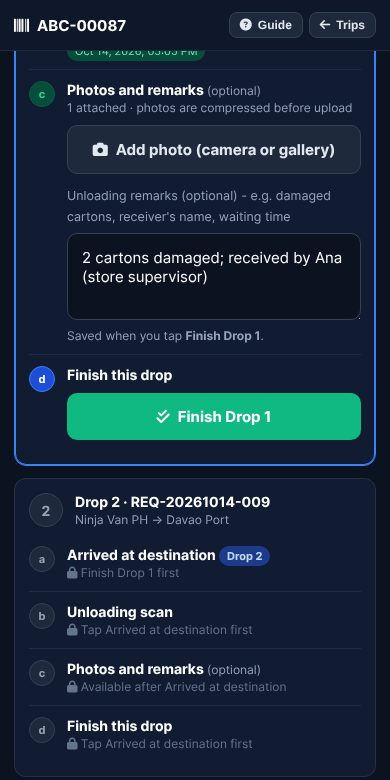
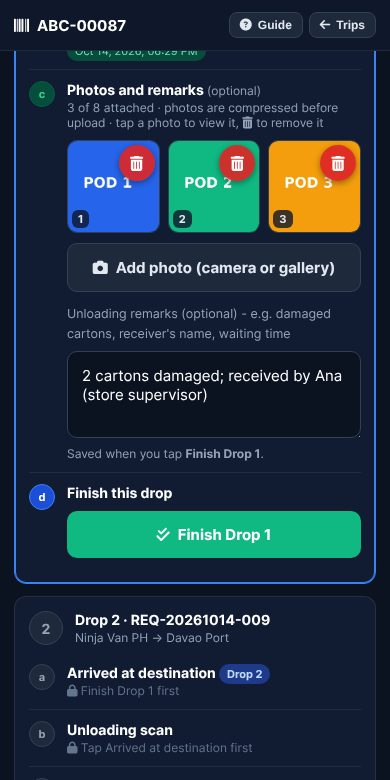
Scanning app: view drop photos on the phone and remove ones you added
- GET /api/scan/requests/{rid}/attachments/{aid}: shows a drop photo/PDF inline
  (photos and PDFs only; everything else downloads; nosniff on all attachments)
- DELETE same path: driver removes their own photo while the drop is unfinished
- Trip detail lists attachments without storage paths, marking the driver's own
- Thumbnails + review step in the app; driver guide updated

diff --git a/backend/static/index.html b/backend/static/index.html
@@ -201,6 +201,20 @@ body.scan-mode .layout{display:none}
 .sc-btn[disabled]{opacity:.45;cursor:not-allowed}
 .sc-in{width:100%;padding:14px;font-size:17px;border-radius:10px;border:1px solid #334155;background:#0B1220;color:#fff;font-family:inherit}
 .sc-in-wrap{position:relative}
+.sc-thumbs{display:grid;grid-template-columns:repeat(3,1fr);gap:8px;margin-top:10px}
+.sc-th{position:relative;aspect-ratio:1/1;border-radius:10px;overflow:hidden;background:#0B1220;border:1px solid #334155;cursor:pointer}
+.sc-th img{width:100%;height:100%;object-fit:cover;display:block}
+.sc-th .ph{position:absolute;inset:0;display:flex;flex-direction:column;align-items:center;justify-content:center;gap:4px;color:#94A3B8;font-size:11px;padding:6px;text-align:center;word-break:break-all}
+.sc-th .ph i{font-size:22px}
+.sc-th-del{position:absolute;top:4px;right:4px;width:36px;height:36px;border-radius:50%;border:0;background:rgba(220,38,38,.92);color:#fff;font-size:15px;display:flex;align-items:center;justify-content:center;cursor:pointer;box-shadow:0 2px 6px rgba(0,0,0,.4)}
+.sc-th-n{position:absolute;left:4px;bottom:4px;background:rgba(15,23,42,.8);color:#E2E8F0;font-size:11px;font-weight:700;border-radius:6px;padding:2px 6px}
+#scPv{position:fixed;inset:0;z-index:450;background:#020617;display:flex;flex-direction:column;color:#fff}
+#scPv .pv-top{display:flex;justify-content:space-between;align-items:center;gap:8px;padding:12px 14px}
+#scPv .pv-img{flex:1;display:flex;align-items:center;justify-content:center;min-height:0;padding:0 8px;position:relative}
+#scPv .pv-img img{max-width:100%;max-height:100%;object-fit:contain;border-radius:6px}
+#scPv .pv-nav{position:absolute;top:50%;transform:translateY(-50%);width:46px;height:46px;border-radius:50%;border:0;background:rgba(51,65,85,.85);color:#fff;font-size:18px;cursor:pointer}
+#scPv .pv-bot{display:flex;gap:10px;padding:12px 14px 18px}
+#scPv .pv-bot .sc-btn{margin-top:0}
 .sc-in-wrap .sc-in{padding-right:56px}
 .sc-clr{position:absolute;right:6px;top:50%;transform:translateY(-50%);width:44px;height:44px;border:0;border-radius:50%;background:#334155;color:#fff;font-size:18px;display:none;align-items:center;justify-content:center;cursor:pointer;-webkit-tap-highlight-color:transparent}
 .sc-clr.on{display:flex}
@@ -686,8 +700,8 @@ body.scan-mode .layout{display:none}
 <div class="card" style="margin-bottom:16px;scroll-margin-top:90px" data-gid="gd-drop">
 <div class="card-h"><h3><i class="fas fa-location-dot"></i> 5. At each drop</h3><a href="javascript:void(0)" onclick="return guideJump(this,'top')" style="font-size:12px;color:var(--muted);text-decoration:none"><i class="fas fa-arrow-up"></i> Top</a></div>
 <div class="card-b">
-<ol class="guide-steps"><li>Drops are done in order: Drop 1, then Drop 2, &hellip;</li><li><strong>(a) Arrived at destination</strong> &mdash; tap it when you arrive.</li><li><strong>(b) Unloading scan</strong> &mdash; tap <strong>Open unloading scan</strong> and scan each bag you unload. Only bags loaded for this drop are accepted.</li><li>Tap <strong>End Unloading Scan</strong>, check the summary and confirm. Bags still without an unloading scan are shown as <strong>(Discrepancy)</strong>. It cannot be reopened afterwards.</li><li><strong>(c) Photos and remarks</strong> (optional) &mdash; tap <strong>Add photo</strong> to take or choose photos (e.g. proof of delivery), and type any <strong>Unloading remarks</strong> (e.g. damaged cartons, who received the bags).</li><li><strong>(d) Finish Drop</strong> &mdash; tap it to complete the drop. Your remarks are saved with it and the next drop unlocks.</li></ol>
-<div class="g-shots"><figure class="g-shot g-pair"><a href="/guide/d06-unload.jpg" target="_blank" rel="noopener" title="Open full size"><img src="/guide/d06-unload.jpg" alt="Unloading scan, then the summary before ending it." loading="lazy"></a><figcaption><i class="fas fa-image"></i> Unloading scan, then the summary before ending it.</figcaption></figure><figure class="g-shot g-phone"><a href="/guide/d07-photos.jpg" target="_blank" rel="noopener" title="Open full size"><img src="/guide/d07-photos.jpg" alt="Add photos and remarks, then Finish Drop." loading="lazy"></a><figcaption><i class="fas fa-image"></i> Add photos and remarks, then <strong>Finish Drop</strong>.</figcaption></figure></div>
+<ol class="guide-steps"><li>Drops are done in order: Drop 1, then Drop 2, &hellip;</li><li><strong>(a) Arrived at destination</strong> &mdash; tap it when you arrive.</li><li><strong>(b) Unloading scan</strong> &mdash; tap <strong>Open unloading scan</strong> and scan each bag you unload. Only bags loaded for this drop are accepted.</li><li>Tap <strong>End Unloading Scan</strong>, check the summary and confirm. Bags still without an unloading scan are shown as <strong>(Discrepancy)</strong>. It cannot be reopened afterwards.</li><li><strong>(c) Photos and remarks</strong> (optional) &mdash; tap <strong>Add photo</strong> to take or choose photos (e.g. proof of delivery), and type any <strong>Unloading remarks</strong> (e.g. damaged cartons, who received the bags).</li><li><strong>Check your photos</strong> &mdash; tap a photo to see it full screen (use the arrows for the others). To remove one, tap its <i class="fas fa-trash-can"></i> (or <strong>Remove this photo</strong>) and confirm. Up to 8 files per drop; photos can be removed until you tap Finish Drop.</li><li><strong>(d) Finish Drop</strong> &mdash; tap it to complete the drop. Your remarks are saved with it and the next drop unlocks.</li></ol>
+<div class="g-shots"><figure class="g-shot g-pair"><a href="/guide/d06-unload.jpg" target="_blank" rel="noopener" title="Open full size"><img src="/guide/d06-unload.jpg" alt="Unloading scan, then the summary before ending it." loading="lazy"></a><figcaption><i class="fas fa-image"></i> Unloading scan, then the summary before ending it.</figcaption></figure><figure class="g-shot g-phone"><a href="/guide/d07-photos.jpg" target="_blank" rel="noopener" title="Open full size"><img src="/guide/d07-photos.jpg" alt="Add photos and remarks, then Finish Drop." loading="lazy"></a><figcaption><i class="fas fa-image"></i> Add photos and remarks, then <strong>Finish Drop</strong>.</figcaption></figure><figure class="g-shot g-pair"><a href="/guide/d08-review.jpg" target="_blank" rel="noopener" title="Open full size"><img src="/guide/d08-review.jpg" alt="Review a photo full screen, and confirm before removing it." loading="lazy"></a><figcaption><i class="fas fa-image"></i> Review a photo full screen, and confirm before removing it.</figcaption></figure></div>
 </div></div>
 <div class="card" style="margin-bottom:16px;scroll-margin-top:90px" data-gid="gd-done">
 <div class="card-h"><h3><i class="fas fa-flag-checkered"></i> 6. Finish the trip</h3><a href="javascript:void(0)" onclick="return guideJump(this,'top')" style="font-size:12px;color:var(--muted);text-decoration:none"><i class="fas fa-arrow-up"></i> Top</a></div>
@@ -4014,7 +4028,8 @@ function scDropCard(t,r,i,prevNo){
   // c) photos and unloading remarks (after arrival); remarks are saved with Finish Drop
   const draft=scRemarkDraft[r.id]!=null?scRemarkDraft[r.id]:(r.unloading_remarks||'');
   let c='<div class="sc-step"><div class="sc-dot '+((r.attachments||[]).length||r.unloading_remarks?'done':'')+'">c</div><div class="sc-body"><div class="t">Photos and remarks <span style="font-weight:400;color:#94A3B8;font-size:12px">(optional)</span></div>';
-  if(arrived&&!done)c+='<div class="s">'+((r.attachments||[]).length)+' attached &middot; photos are compressed before upload</div><button class="sc-btn sec" onclick="scPhoto('+r.id+')"><i class="fas fa-camera"></i> Add photo (camera or gallery)</button>'+
+  if(arrived&&!done)c+='<div class="s">'+((r.attachments||[]).length)+' of 8 attached &middot; photos are compressed before upload'+((r.attachments||[]).length?' &middot; tap a photo to view it, <i class="fas fa-trash-can"></i> to remove it':'')+'</div>'+scThumbs(r)+
+    ((r.attachments||[]).length<8?'<button class="sc-btn sec" onclick="scPhoto('+r.id+')"><i class="fas fa-camera"></i> Add photo (camera or gallery)</button>':'<div class="s" style="color:#FCD34D;margin-top:8px">8 files is the limit - remove one to add another.</div>')+
     '<input type="file" id="scFile'+r.id+'" accept="image/*,application/pdf" multiple style="display:none" onchange="scPhotoSend('+r.id+',this)">'+
     '<label class="sc-hint" for="scRemark'+r.id+'" style="display:block;margin-top:12px">Unloading remarks (optional) - e.g. damaged cartons, receiver\'s name, waiting time</label>'+
     '<textarea class="sc-in" id="scRemark'+r.id+'" rows="3" maxlength="1000" style="margin-top:6px;font-size:15px" placeholder="Type any remarks about this drop..." oninput="scRemarkDraft['+r.id+']=this.value">'+esc(draft)+'</textarea>'+
@@ -4081,6 +4096,7 @@ function renderScanTrip(){
   let prevNo=null;
   rs.forEach((r,i)=>{body+=scDropCard(t,r,i,prevNo);prevNo=scDropNo(r,i)});
   scanShell(esc(t.trip_id),body,scanBack('Trips','scanHome()'));
+  scLoadThumbs();
 }
 async function scConfirmArrival(){
   const t=scanCur;if(!t)return;
@@ -4181,6 +4197,83 @@ async function scanReloadTrip(){
   renderScanTrip();
 }
 function scPhoto(rid){const i=document.getElementById('scFile'+rid);if(i)i.click()}
+/* ---- review the drop's photos: thumbnails, full-screen viewer, remove ---- */
+const scThumbUrl={};   // attachment id -> object URL of the downloaded photo
+function scAttsOf(rid){const t=scanCur;const r=t&&(t.requests||[]).find(x=>x.id===rid);return (r&&r.attachments)||[]}
+function scThumbs(r){
+  const atts=r.attachments||[];
+  if(!atts.length)return '';
+  return '<div class="sc-thumbs">'+atts.map((a,i)=>{
+    const del=a.mine?'<button type="button" class="sc-th-del" title="Remove this photo" aria-label="Remove photo '+(i+1)+'" onclick="event.stopPropagation();scPhotoDel('+r.id+','+a.id+')"><i class="fas fa-trash-can"></i></button>':'';
+    const inner=a.is_image?'<img data-scatt="'+r.id+':'+a.id+'" alt="Photo '+(i+1)+'"'+(scThumbUrl[a.id]?' src="'+scThumbUrl[a.id]+'"':'')+'>'+(scThumbUrl[a.id]?'':'<div class="ph"><i class="fas fa-spinner fa-spin"></i></div>')
+      :'<div class="ph"><i class="fas '+(/pdf/i.test(a.file_type||'')?'fa-file-pdf':'fa-file')+'"></i>'+esc(String(a.original_filename||'file').slice(0,28))+'</div>';
+    return '<div class="sc-th" role="button" tabindex="0" title="'+esc(a.original_filename||'')+'" onclick="scPhotoOpen('+r.id+','+i+')">'+inner+'<span class="sc-th-n">'+(i+1)+'</span>'+del+'</div>';
+  }).join('')+'</div>';
+}
+async function scAttBlobUrl(rid,aid){
+  if(scThumbUrl[aid])return scThumbUrl[aid];
+  const h={};if(scanTok())h['X-Scan-Token']=scanTok();
+  const res=await fetch('/api/scan/requests/'+rid+'/attachments/'+aid,{headers:h});
+  if(!res.ok)throw new Error(res.status===404?'Photo not found':'Could not load the photo');
+  const u=URL.createObjectURL(await res.blob());
+  scThumbUrl[aid]=u;return u;
+}
+/* Fill every thumbnail on screen (cached, so re-drawing the trip does not download again). */
+async function scLoadThumbs(){
+  const imgs=[...document.querySelectorAll('#scanApp img[data-scatt]')].filter(i=>!i.getAttribute('src'));
+  for(const im of imgs){
+    const [rid,aid]=im.dataset.scatt.split(':').map(Number);
+    try{
+      const u=await scAttBlobUrl(rid,aid);
+      document.querySelectorAll('#scanApp img[data-scatt="'+rid+':'+aid+'"]').forEach(x=>{x.src=u;const ph=x.parentNode.querySelector('.ph');if(ph)ph.remove()});
+    }catch(e){
+      const ph=im.parentNode.querySelector('.ph');if(ph)ph.innerHTML='<i class="fas fa-image"></i>Not loaded';
+    }
+  }
+}
+let scPv=null;  // {rid, i}
+async function scPhotoOpen(rid,i){
+  const atts=scAttsOf(rid);const a=atts[i];if(!a)return;
+  if(!a.is_image){  // a PDF or other file: open it on its own
+    try{const u=await scAttBlobUrl(rid,a.id);window.open(u,'_blank')}catch(e){scanAlert(e.message)}
+    return;
+  }
+  scPv={rid,i};
+  let ov=document.getElementById('scPv');
+  if(!ov){ov=document.createElement('div');ov.id='scPv';document.body.appendChild(ov)}
+  const editable=!!document.querySelector('#scFile'+rid);  // drop still open on this phone
+  ov.innerHTML='<div class="pv-top"><strong>Photo '+(i+1)+' of '+atts.length+'</strong><button class="btn btn-sm btn-p" onclick="scPhotoClose()"><i class="fas fa-xmark"></i> Close</button></div>'+
+    '<div class="pv-img">'+(atts.length>1?'<button class="pv-nav" style="left:10px" aria-label="Previous photo" onclick="scPhotoStep(-1)"><i class="fas fa-chevron-left"></i></button>':'')+
+    '<img id="scPvImg" alt="Photo '+(i+1)+'"'+(scThumbUrl[a.id]?' src="'+scThumbUrl[a.id]+'"':'')+'>'+
+    (atts.length>1?'<button class="pv-nav" style="right:10px" aria-label="Next photo" onclick="scPhotoStep(1)"><i class="fas fa-chevron-right"></i></button>':'')+'</div>'+
+    '<div class="pv-bot">'+(a.mine&&editable?'<button class="sc-btn danger" onclick="scPhotoDel('+rid+','+a.id+',true)"><i class="fas fa-trash-can"></i> Remove this photo</button>':'<div class="sc-hint" style="flex:1;text-align:center">'+(a.mine?'This drop is finished - photos can no longer be removed here.':'Added by the office - it cannot be removed from the phone.')+'</div>')+'</div>';
+  ov.style.display='flex';
+  if(!scThumbUrl[a.id]){try{const u=await scAttBlobUrl(rid,a.id);const im=document.getElementById('scPvImg');if(im)im.src=u}catch(e){}}
+}
+function scPhotoStep(d){
+  if(!scPv)return;const atts=scAttsOf(scPv.rid);if(!atts.length)return;
+  let i=scPv.i;
+  for(let k=0;k<atts.length;k++){i=(i+d+atts.length)%atts.length;if(atts[i].is_image)break}
+  scPhotoOpen(scPv.rid,i);
+}
+function scPhotoClose(){const ov=document.getElementById('scPv');if(ov)ov.remove();scPv=null}
+async function scPhotoDel(rid,aid,fromViewer){
+  const atts=scAttsOf(rid);const n=atts.findIndex(a=>a.id===aid)+1;
+  if(fromViewer)scPhotoClose();
+  const ok=await scanModal({title:'Remove photo '+(n||'')+'?',icon:'trash-can',ok:'Remove',okClass:'danger',cancel:'Keep it',
+    html:(scThumbUrl[aid]?'<img src="'+scThumbUrl[aid]+'" alt="" style="width:100%;max-height:220px;object-fit:contain;border-radius:8px;margin-bottom:10px">':'')+
+      '<p>The photo is deleted from this drop and cannot be brought back. You can take a new one afterwards.</p>'});
+  if(!ok)return;
+  if(scanBusy)return;scanBusy=true;
+  try{
+    await scanApi('/api/scan/requests/'+rid+'/attachments/'+aid,{method:'DELETE'});
+    if(scThumbUrl[aid]){URL.revokeObjectURL(scThumbUrl[aid]);delete scThumbUrl[aid]}
+    scanBusy=false;
+    await scanReloadTrip();
+    const w=document.getElementById('scLateWrap');
+    if(w){w.innerHTML='<div class="sc-ok"><i class="fas fa-check-circle"></i> Photo removed.</div>';}
+  }catch(e){scanBusy=false;scanSiren();scanAlert(e.message)}
+}
 /* Shrink a photo before upload: longest side 1600px, JPEG quality 0.72.
    Anything that is not an image (or cannot be decoded) is sent as it is. */
 const SC_PHOTO_MAX=1600,SC_PHOTO_Q=0.72;

diff --git a/backend/main.py b/backend/main.py
@@ -4421,9 +4421,18 @@ def download_att(aid: int, request: Request):
         req_row = next((r for r in _store["truck_requests"] if r["id"] == rid), None) if LOCAL_MODE \
             else db_1("SELECT vendor_id, assigned_truck_id FROM truck_requests WHERE id=%s", (rid,))
         if not req_row or not _owned_by_vendor(req_row, scope_vid): raise HTTPException(404, "Not found")
+    return _att_file_response(att)
+
+INLINE_SAFE_TYPES = {"image/jpeg", "image/png", "image/webp", "image/gif", "image/heic", "image/heif", "application/pdf"}
+
+def _att_file_response(att, inline=False):
+    """The stored file of one attachment, as a download (or shown in place when inline).
+    Only photos and PDFs are ever shown in place; anything else is always a download."""
     path = att.get("storage_path", "")
     filename = att.get("original_filename") or att.get("filename") or "download"
     media = att.get("file_type") or "application/octet-stream"
+    inline = bool(inline) and media in INLINE_SAFE_TYPES
+    nosniff = {"X-Content-Type-Options": "nosniff"}
     if _is_object_key(path):
         try:
             if not obj_storage.exists(path):
@@ -4437,11 +4446,13 @@ def download_att(aid: int, request: Request):
         return Response(
             data,
             media_type=media,
-            headers={"Content-Disposition": f'attachment; filename="{safe_name}"'},
+            headers={"Content-Disposition": f'{"inline" if inline else "attachment"}; filename="{safe_name}"', **nosniff},
         )
     if not path or not os.path.exists(path):
         raise HTTPException(404, "File missing")
-    return FileResponse(path, filename=filename, media_type=media)
+    if inline:
+        return FileResponse(path, media_type=media, headers={"Content-Disposition": "inline", **nosniff})
+    return FileResponse(path, filename=filename, media_type=media, headers=nosniff)
 
 @app.delete("/api/attachments/{aid}")
 def delete_att(aid: int, request: Request):
@@ -5784,9 +5795,7 @@ def _trip_detail(driver, rows):
             "unload_scan_count": len(usc),
             "unload_expected_count": len(uref),
             "is_next_drop": i == 0,
-            "attachments": db_q("SELECT id, original_filename, file_size FROM truck_request_attachments WHERE truck_request_id=%s",
-                                (r.get("id"),)) if not LOCAL_MODE else
-                           [row2d(a) for a in _store["attachments"] if a.get("truck_request_id") == r.get("id")],
+            "attachments": _scan_att_list(r.get("id"), driver),
         })
     fcs = [to_gmt8(r.get("final_call_datetime")) for r in rows if r.get("final_call_datetime")]
     return {"trip_id": base, "status_id": 3 if any(r.get("status_id") == 3 for r in rows) else 2,
@@ -6294,6 +6303,49 @@ async def scan_photo(rid: int, request: Request, file: UploadFile = File(...)):
         file_size,file_type,storage_path,uploaded_by) VALUES (%s,%s,%s,%s,%s,%s,%s)""",
         (rid, fn, file.filename or "photo.jpg", len(content), ctype, fp, driver.get("username") or "driver"))
     return db_1("SELECT * FROM truck_request_attachments WHERE id=%s", (aid,))
+
+def _scan_att_list(rid, driver=None):
+    """A drop's attachments for the scanning app: no storage paths; `mine` marks the
+    files this driver uploaded (only those can be removed from the phone)."""
+    rows = ([row2d(a) for a in _store["attachments"] if a.get("truck_request_id") == rid] if LOCAL_MODE
+            else db_q("SELECT id, original_filename, file_size, file_type, uploaded_by, created_at "
+                      "FROM truck_request_attachments WHERE truck_request_id=%s ORDER BY id", (rid,)))
+    me = (driver or {}).get("username")
+    return [{"id": a.get("id"), "original_filename": a.get("original_filename"), "file_size": a.get("file_size"),
+             "file_type": a.get("file_type"), "is_image": str(a.get("file_type") or "").startswith("image/"),
+             "mine": bool(me) and a.get("uploaded_by") == me} for a in rows]
+
+def _scan_att_or_404(rid, aid):
+    att = (next((a for a in _store["attachments"] if a["id"] == aid), None) if LOCAL_MODE
+           else db_1("SELECT * FROM truck_request_attachments WHERE id=%s", (aid,)))
+    if not att or att.get("truck_request_id") != rid:
+        raise HTTPException(404, "Photo not found")
+    return att
+
+@app.get("/api/scan/requests/{rid}/attachments/{aid}")
+def scan_photo_view(rid: int, aid: int, request: Request):
+    """Shows one of the drop's photos / files on the driver's phone."""
+    driver = get_driver(request)
+    _scan_request_or_404(rid, driver)
+    att = _scan_att_or_404(rid, aid)
+    return _att_file_response(att, inline=True)
+
+@app.delete("/api/scan/requests/{rid}/attachments/{aid}")
+def scan_photo_delete(rid: int, aid: int, request: Request):
+    """The driver removes a photo they added, while the drop is not finished yet."""
+    driver = get_driver(request)
+    row = _scan_request_or_404(rid, driver)
+    att = _scan_att_or_404(rid, aid)
+    if row.get("end_unloading_datetime") or row.get("status_id") not in (2, 3):
+        raise HTTPException(400, "This drop is finished - its photos can no longer be removed here")
+    if att.get("uploaded_by") != driver.get("username"):
+        raise HTTPException(403, "Only photos you added on this phone can be removed here")
+    _delete_att_file(att.get("storage_path", ""))
+    if LOCAL_MODE:
+        _store["attachments"] = [a for a in _store["attachments"] if a["id"] != aid]
+    else:
+        db_x("DELETE FROM truck_request_attachments WHERE id=%s", (aid,))
+    return {"ok": True, "attachments": _scan_att_list(rid, driver)}
 
 # --- Assigning a driver to a trip -----------------------------------------
 
